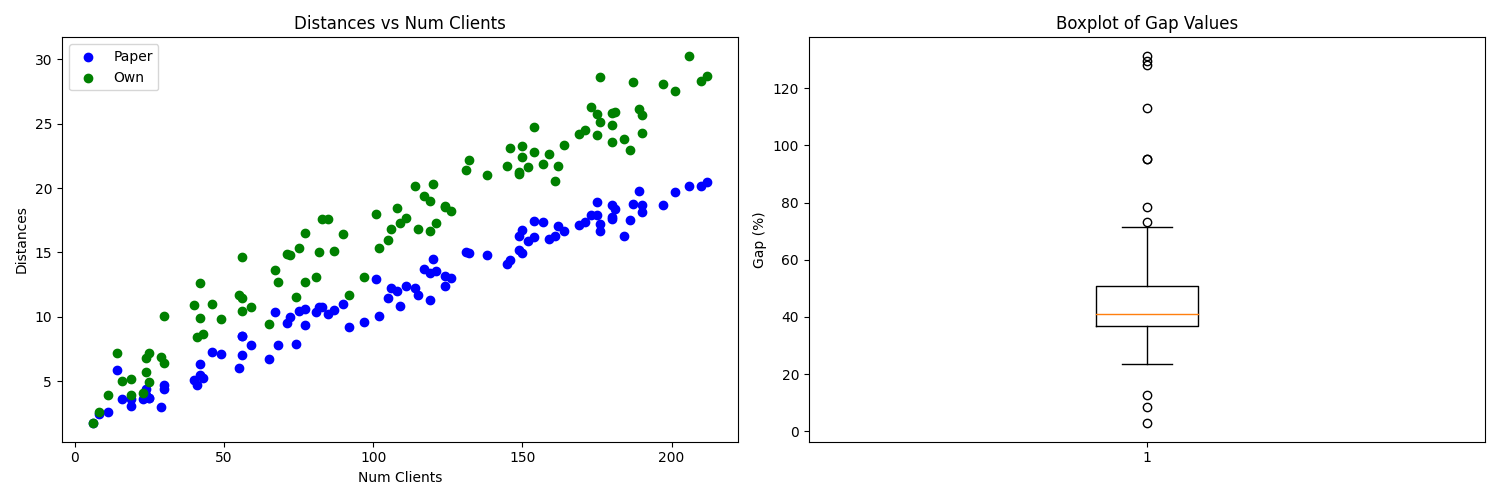
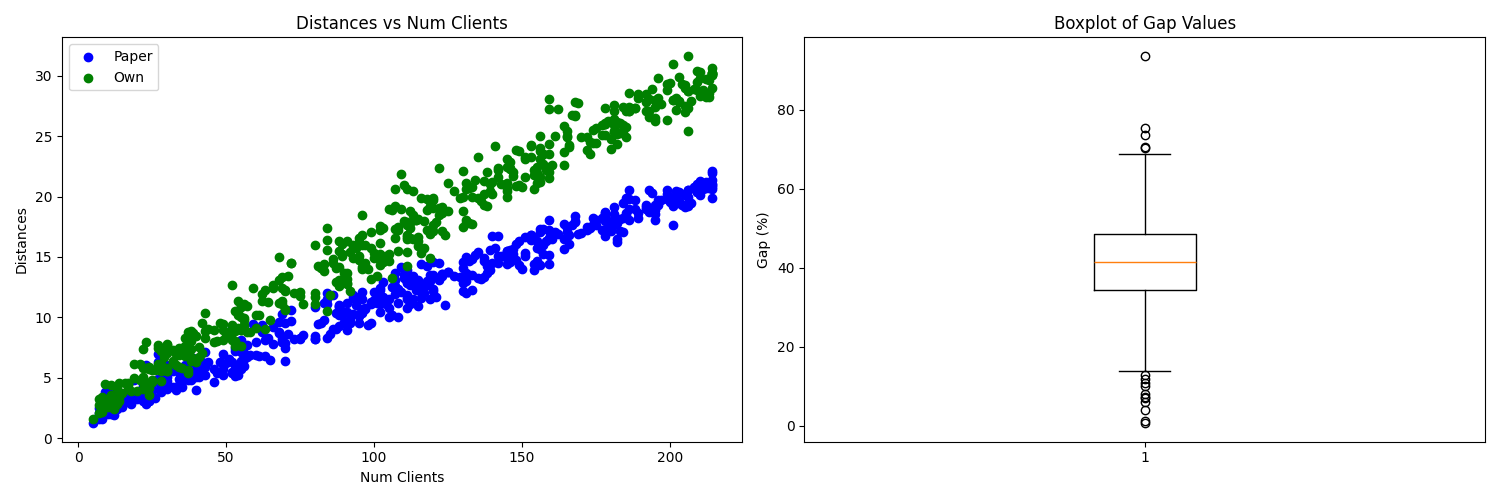
Updated Graphs

diff --git a/Comparación/visualize.py b/Comparación/visualize.py
@@ -50,7 +50,7 @@ def run_data(SIMUL, param):
     visualize_(todos_los_datos, param)
 
 
-NUM_SIMUL = 100
+NUM_SIMUL = 500
 run_data(NUM_SIMUL, "distances")
 run_data(NUM_SIMUL, "times")
 run_data(NUM_SIMUL, "utilization")
